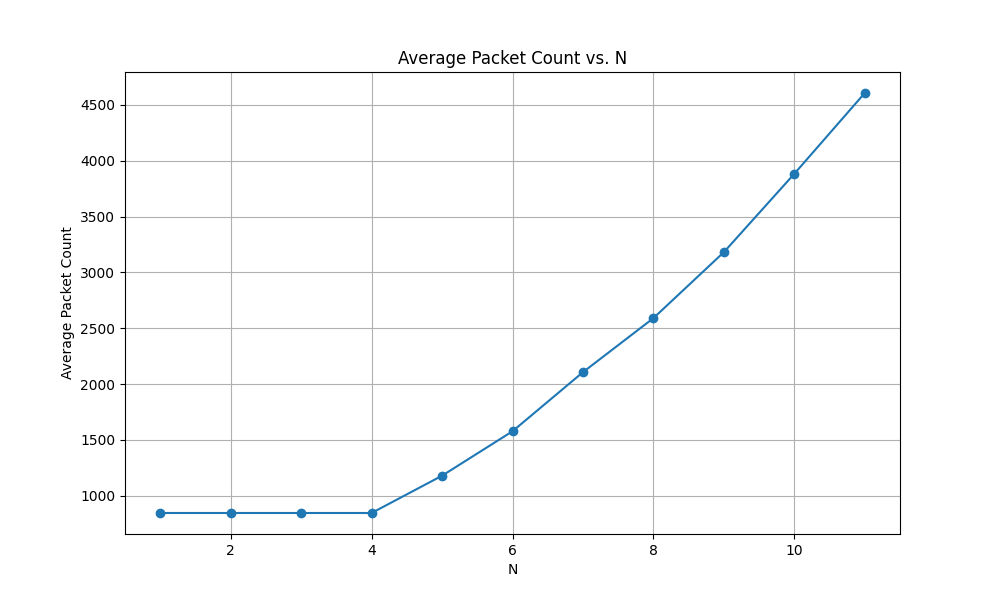
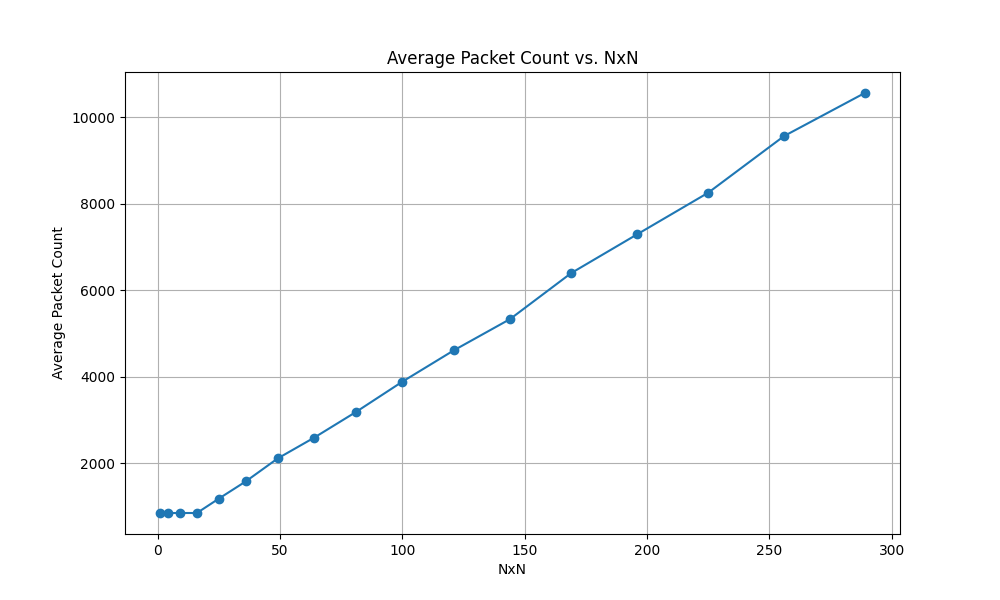
add link failure scenarios

diff --git a/run-grid.py b/run-grid.py
@@ -1,6 +1,8 @@
 import sys
 import subprocess
 import os
+import numpy as np
+
 def replace_placeholders_in_file(input_file: str, output_file: str, height: int, width: int) -> None:
     """
     Reads the input file, replaces <width> and <height> placeholders with the provided values,
@@ -69,22 +71,76 @@ def gen_as_config_compact(height, width):
       print(xml, file=file)  # Python 3.x
       file.flush()
       os.fsync(file.fileno())
+      
+# Generate link fail events 
+def gen_one_event(time, duration, src, src_if, dst, dst_if):
+  recover_time = str(int(time + duration))
+  time = str(int(time))
+  src_if = str(src_if)
+  dst_if = str(dst_if)
+  xml = "    <at t=\"" + time + "us\">\n"
+  xml += "        <disconnect src-module=\"" + src + "\" src-gate=\"ethg$o[" + src_if + "]\" />\n"
+  xml += "        <disconnect src-module=\"" + dst + "\" src-gate=\"ethg$o[" + dst_if + "]\" />\n"
+  xml += "    </at>\n"
+  xml += "    <at t=\"" + recover_time + "us\">\n"
+  xml += "        <connect src-module=\"" + src + "\" src-gate=\"ethg[" + src_if + "]\"\n"
+  xml += "                 dest-module=\"" + dst + "\" dest-gate=\"ethg[" + dst_if + "]\"\n"
+  xml += "                 channel-type=\"inet.common.misc.ThruputMeteringChannel\">\n"
+  xml += "            <param name=\"delay\" value=\"10ms\" />\n"
+  xml += "            <param name=\"datarate\" value=\"100Mbps\" />\n"
+  xml += "            <param name=\"thruputDisplayFormat\" value=\'\"#N\"\' />\n"
+  xml += "        </connect>\n"
+  xml += "    </at>\n"
+  return xml
+
+def gen_events_one_link(src, src_if, dst, dst_if, mean, variance, duration, stop_time, prob):
+  (alpha, x_m) = prob
+  current_time = 100 * 1000000 # start at 100 seconds
+  xml = ""
+  while current_time <= stop_time:
+    xml += gen_one_event(current_time, duration, src, src_if, dst, dst_if)
+    current_time += duration + (np.random.pareto(alpha) + 1) * x_m
+  return xml
+
+def gen_link_update(height, width):
+  xml = "<scenario>\n"
+  for i in range(height):
+    for j in range(width):
+      src = "R" + str(i*width+j)
+      src_if = 0
+      dst = "R" + str(i*width+(j+1)%width)
+      dst_if =2
+      xml += gen_events_one_link(src, src_if, dst, dst_if, mean=4 * 1000000, variance=2 * 1000000, duration=3, prob=(2, 10 * 1000000),stop_time=200 * 1000000)
+  xml += "</scenario>\n"
+  return xml
+
 
 # Example usage
 input_file_path = "omnetpp.ini.in"
 output_file_path = "omnetpp.ini"
-if len(sys.argv) < 2:
-    print("arguments: width height")
+if len(sys.argv) < 3:
+    print("arguments: <width> <height> [config](static, linkfail)")
 else:
     height = int(sys.argv[1])
     width = int(sys.argv[2])
+    if len(sys.argv) == 3:
+        config = "static"
+    else:
+        config = sys.argv[3]
+    
+    if (config == "linkfail"):
+        xml = gen_link_update(height, width)
+        with open('scenarios/LinkUpdate-' + str(height) + 'x' + str(width) + '.xml', 'w') as file:
+            print(xml, file=file)  # Python 3.x
+            file.flush()
+            os.fsync(file.fileno())
 
     replace_placeholders_in_file(input_file_path, output_file_path, width, height)
 
     gen_as_config_compact(height, width)
 
     try:
-        subprocess.run(["inet","-u","Cmdenv","--result-dir=results-" + str(height) + "x" + str(width)])
+        subprocess.run(["inet","-u","Cmdenv","--result-dir=results/" + str(height) + "x" + str(width), "-c", config])
         #result = subprocess.run(["inet","-u","Cmdenv","--result-dir=results-" + str(height) + "x" + str(width)], capture_output=True, text=True, check=True)
         #with open("results-" + str(height) + "x" + str(width) + "/out.log", 'w') as file:
         #    file.write(result.stdout)

diff --git a/plot/total_bytes_vs_N.py b/plot/total_bytes_vs_N.py
@@ -1,5 +1,6 @@
 import os
 import re
+import sys
 import matplotlib.pyplot as plt
 
 def get_max_N(directory):
@@ -10,16 +11,20 @@ def get_max_N(directory):
             N_values.append(int(match.group(1)))
     return max(N_values) if N_values else None
 
-def extract_packet_counts(filename):
-    packet_counts = []
+def extract_bytes(filename):
+    num_bytes = []
     with open(filename, 'r') as file:
         for line in file:
-            match = re.match(r'scalar GridCompact\.R\[\d+\]\.ethernet encapPk:count (\d+)', line)
+            match = re.match(r'scalar GridCompact\.R\[\d+\]\.eth\[\d+\]\.mac txPk:sum\(packetBytes\) (\d+)', line)
             if match:
-                packet_counts.append(int(match.group(1)))
-    return packet_counts
+                num_bytes.append(int(match.group(1)))
+                # print(int(match.group(1)))
+    return num_bytes
 
 def main():
+    if len(sys.argv) < 1:
+        print("usage: <config>")
+    config = sys.argv[1]
     directory = "../"
     max_N = get_max_N(directory)
     
@@ -30,22 +35,22 @@ def main():
     N_values = []
     totals = []
 
-    for N in range(1, max_N + 1):
-        filename = f"../results-{N}x{N}/General-#0.sca"
+    for N in range(2, max_N + 1):
+        filename = f"../results/{N}x{N}/{config}-#0.sca"
         if os.path.isfile(filename):
-            packet_counts = extract_packet_counts(filename)
-            if packet_counts:
-                total_packet_count = sum(packet_counts)
+            num_bytes = extract_bytes(filename)
+            if num_bytes:
+                total_packet_count = sum(num_bytes)
                 N_values.append(N*N)
                 totals.append(total_packet_count)
     
     plt.figure(figsize=(10, 6))
     plt.plot(N_values, totals, marker='o')
     plt.xlabel('NxN')
-    plt.ylabel('Total Packet Count')
-    plt.title('Total Packet Count vs. NxN')
+    plt.ylabel('Total Bytes')
+    plt.title('Total Bytes vs. NxN')
     plt.grid(True)
-    plt.savefig('total_packet_count.png')
+    plt.savefig(f"total_bytes_{config}.png")
     plt.show()
 
 if __name__ == "__main__":

diff --git a/plot/compare_total_bytes.py b/plot/compare_total_bytes.py
@@ -1,0 +1,60 @@
+import os
+import re
+import sys
+import matplotlib.pyplot as plt
+
+def get_max_N(directory):
+    N_values = []
+    for entry in os.listdir(directory):
+        match = re.match(r'results-(\d+)x\1', entry)
+        if match:
+            N_values.append(int(match.group(1)))
+    return max(N_values) if N_values else None
+
+def extract_bytes(filename):
+    num_bytes = []
+    with open(filename, 'r') as file:
+        for line in file:
+            match = re.match(r'scalar GridCompact\.R\[\d+\]\.eth\[\d+\]\.mac txPk:sum\(packetBytes\) (\d+)', line)
+            if match:
+                num_bytes.append(int(match.group(1)))
+                # print(int(match.group(1)))
+    return num_bytes
+
+def main():
+    config = ['static', 'linkfail']
+    directory = "../"
+    max_N = get_max_N(directory)
+    
+    if max_N is None:
+        print("No matching directories found.")
+        return
+
+    N_values = {}
+    totals = {}
+    for c in config:
+        totals[c] = []
+        N_values[c] = []
+
+    for N in range(2, max_N + 1):
+        for c in config:
+            filename = f"../results/{N}x{N}/{c}-#0.sca"
+            if os.path.isfile(filename):
+                num_bytes = extract_bytes(filename)
+                if num_bytes:
+                    total_packet_count = sum(num_bytes)
+                    N_values[c].append(N*N)
+                    totals[c].append(total_packet_count)
+    
+    plt.figure(figsize=(10, 6))
+    for c in config:
+        plt.plot(N_values[c], totals[c], marker='o')
+    plt.xlabel('NxN')
+    plt.ylabel('Total Bytes')
+    plt.title('Total Bytes vs. NxN')
+    plt.grid(True)
+    plt.savefig(f"total_bytes_compare.png")
+    plt.show()
+
+if __name__ == "__main__":
+    main()

diff --git a/plot/average_bytes_vs_N.py b/plot/average_bytes_vs_N.py
@@ -10,14 +10,15 @@ def get_max_N(directory):
             N_values.append(int(match.group(1)))
     return max(N_values) if N_values else None
 
-def extract_packet_counts(filename):
-    packet_counts = []
+def extract_bytes(filename):
+    num_bytes = []
     with open(filename, 'r') as file:
         for line in file:
-            match = re.match(r'scalar GridCompact\.R\[\d+\]\.ethernet encapPk:count (\d+)', line)
+            match = re.match(r'scalar GridCompact\.R\[\d+\]\.eth\[\d+\]\.mac txPk:sum\(packetBytes\) (\d+)', line)
             if match:
-                packet_counts.append(int(match.group(1)))
-    return packet_counts
+                num_bytes.append(int(match.group(1)))
+                # print(int(match.group(1)))
+    return num_bytes
 
 def main():
     directory = "../"
@@ -33,19 +34,19 @@ def main():
     for N in range(1, max_N + 1):
         filename = f"../results-{N}x{N}/General-#0.sca"
         if os.path.isfile(filename):
-            packet_counts = extract_packet_counts(filename)
-            if packet_counts:
-                total_packet_count = sum(packet_counts)
+            num_bytes = extract_bytes(filename)
+            if num_bytes:
+                total_packet_count = sum(num_bytes) / len(num_bytes)
                 N_values.append(N*N)
                 totals.append(total_packet_count)
     
     plt.figure(figsize=(10, 6))
     plt.plot(N_values, totals, marker='o')
     plt.xlabel('NxN')
-    plt.ylabel('Total Packet Count')
-    plt.title('Total Packet Count vs. NxN')
+    plt.ylabel('Total Bytes')
+    plt.title('Total Bytes vs. NxN')
     plt.grid(True)
-    plt.savefig('total_packet_count.png')
+    plt.savefig('total_bytes.png')
     plt.show()
 
 if __name__ == "__main__":

diff --git a/plot/average_packet_count_vs_N.py b/plot/average_packet_count_vs_N.py
@@ -36,14 +36,14 @@ def main():
             packet_counts = extract_packet_counts(filename)
             if packet_counts:
                 average_packet_count = sum(packet_counts) / len(packet_counts)
-                N_values.append(N)
+                N_values.append(N*N)
                 averages.append(average_packet_count)
     
     plt.figure(figsize=(10, 6))
     plt.plot(N_values, averages, marker='o')
-    plt.xlabel('N')
+    plt.xlabel('NxN')
     plt.ylabel('Average Packet Count')
-    plt.title('Average Packet Count vs. N')
+    plt.title('Average Packet Count vs. NxN')
     plt.grid(True)
     plt.savefig('average_packet_count.png')
     plt.show()
